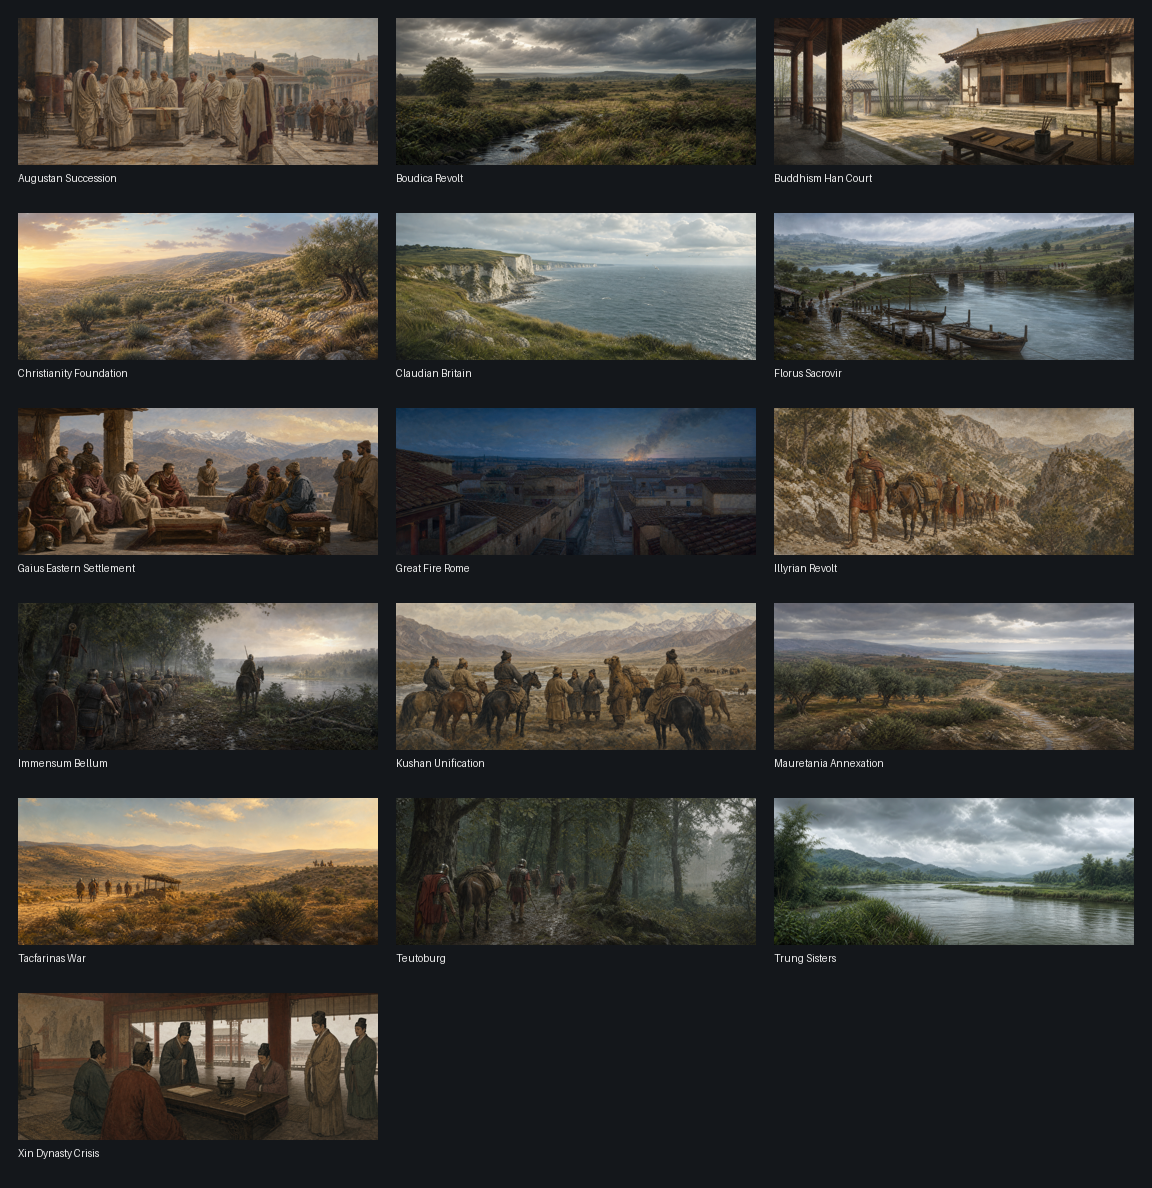
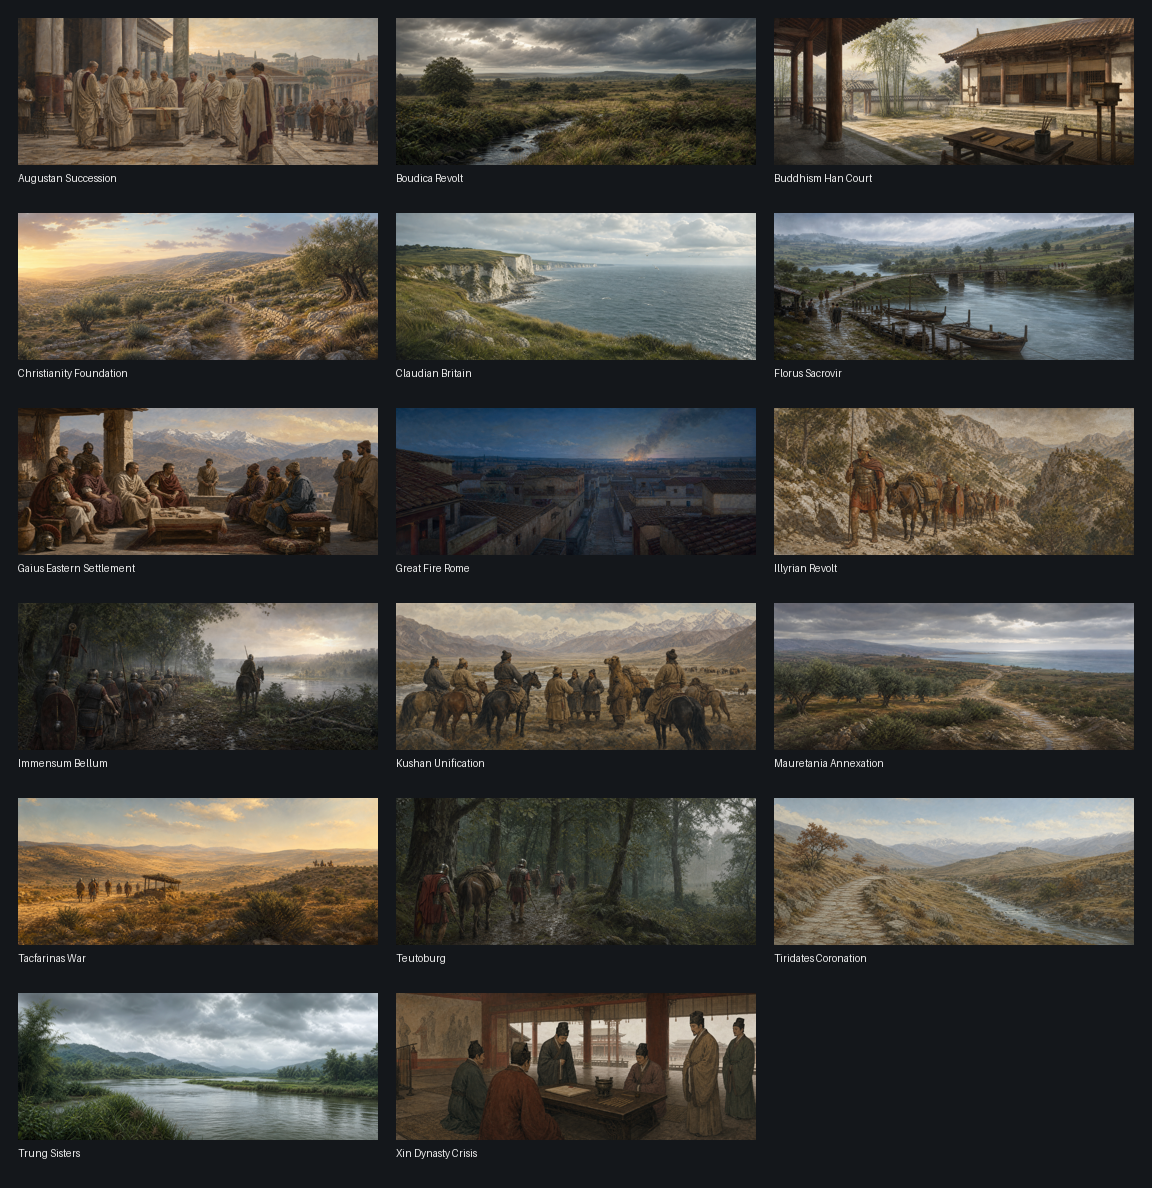
docs(m11): record Tiridates art

Changed region(s): [[0.0, 0.8098, 0.6562, 0.9966], [0.6562, 0.654, 1.0, 0.8098]]

diff --git a/docs/m11/contact_sheet.html b/docs/m11/contact_sheet.html
@@ -14,6 +14,7 @@
     <figure><img src="../../assets_queue/generated/antq_mauretania_annexation_1080x440.png" alt="Mauretania Annexation"><figcaption>Mauretania Annexation</figcaption></figure>
     <figure><img src="../../assets_queue/generated/antq_tacfarinas_war_1080x440.png" alt="Tacfarinas War"><figcaption>Tacfarinas War</figcaption></figure>
     <figure><img src="../../assets_queue/generated/antq_teutoburg_1080x440.png" alt="Teutoburg"><figcaption>Teutoburg</figcaption></figure>
+    <figure><img src="../../assets_queue/generated/antq_tiridates_coronation_1080x440.png" alt="Tiridates Coronation"><figcaption>Tiridates Coronation</figcaption></figure>
     <figure><img src="../../assets_queue/generated/antq_trung_sisters_1080x440.png" alt="Trung Sisters"><figcaption>Trung Sisters</figcaption></figure>
     <figure><img src="../../assets_queue/generated/antq_xin_dynasty_crisis_1080x440.png" alt="Xin Dynasty Crisis"><figcaption>Xin Dynasty Crisis</figcaption></figure>
 </section></main></body></html>

diff --git a/docs/m11/M11_TIRIDATES_CORONATION_ART.md b/docs/m11/M11_TIRIDATES_CORONATION_ART.md
@@ -1,0 +1,28 @@
+# M11 Tiridates' Coronation illustration
+
+## Asset and scope
+
+The retained source is
+`assets_queue/generated_sources/antq_tiridates_coronation_source.png`; its
+exact 1080x440 derivative is
+`assets_queue/generated/antq_tiridates_coronation_1080x440.png`. The
+game-facing BC7 DDS is
+`main_menu/gfx/interface/illustrations/event/antq_tiridates_coronation.dds`.
+
+The text-free image is a generic Armenian highland valley: a stone-paved road,
+river, dry grass, sparse trees, and distant snow-streaked ridges frame an
+indistinct hilltop enclosure. It identifies no coronation, Tiridates, Roman or
+Armenian official, capital, palace, route, treaty, date, action, or outcome.
+Review excluded people, soldiers, animals, crowns, flags, armies, religious
+symbols, churches, temples, battle, ritual, later architecture, modern
+material, labels, logos, and readable writing.
+
+## Engine verification
+
+`EVENT_IMAGES` in `tools/m10_history.py` owns the `antq_m10.1019` image link.
+The texture follows the inspected 1080x440 BC7 country-event form, was
+round-tripped to PNG for visual review, and passed `make validate` plus
+enabled-mod `make smoke` with zero new error-log lines.
+
+Sources: ANTIQVITAS master plan sections 8.2, 9, and 20; local EU5
+country-event image contract.

diff --git a/docs/TODO.md b/docs/TODO.md
@@ -203,7 +203,8 @@ after `make full` and its autonomous driver report are green.
 - [x] Generate, dimension-check, round-trip review, wire, and smoke-test the AD 60 Boudica's Revolt event illustration through a landscape-only eastern-Britain treatment.
 - [x] Generate, dimension-check, round-trip review, wire, and smoke-test the AD 64 Great Fire of Rome event illustration through a restrained non-literal urban context treatment.
 - [x] Generate, dimension-check, round-trip review, wire, and smoke-test the AD 65 Buddhism at the Han Court event illustration through a non-literal Eastern Han scholarly-courtyard context treatment.
-- [x] Render and review the maintained M11 event-art contact sheet (16 retained 1080x440 masters).
+- [x] Generate, dimension-check, round-trip review, wire, and smoke-test the AD 66 Tiridates' Coronation event illustration through a non-literal Armenian highland diplomacy-context treatment.
+- [x] Render and review the maintained M11 event-art contact sheet (17 retained 1080x440 masters).
 - [ ] Reach event/decision targets; finish flags, icons, illustrations, loading/age art, localization, glossary, and credits.
 - [ ] Remove common-screen placeholders; run milestone gate and tag `M11-done`.
 

diff --git a/docs/ASSUMPTIONS.md b/docs/ASSUMPTIONS.md
@@ -1,5 +1,15 @@
 # Historical Assumptions
 
+## 2026-07-20 - Tiridates-coronation art is a generic Armenian context
+
+The image is a generic highland valley with a road, river, dry grass, sparse
+trees, and distant snowy ridges. It identifies no coronation, Tiridates, Roman
+or Armenian official, capital, palace, route, treaty, date, action, or outcome.
+It deliberately contains no people, regalia, army, battle, ritual, or religious
+symbol and is not a reconstruction of the AD 66 settlement or ceremony.
+Sources weighed: P8.2; plan sections 9 and 20. [secure current context;
+illustrative composition only]
+
 ## 2026-07-20 - Buddhism-at-Han-court art is a generic scholarly context
 
 The image is an unoccupied early-Eastern-Han-style scholarly courtyard with a

diff --git a/docs/PROGRESS.md b/docs/PROGRESS.md
@@ -1,5 +1,17 @@
 # Progress
 
+## 2026-07-20 - M11 Tiridates' Coronation event illustration
+
+- Added a reviewed, non-literal Armenian highland diplomacy-context image to
+  the AD 66 Tiridates' Coronation current through the generated event-image
+  contract.
+- The engine-sized BC7 texture was round-trip inspected; `make validate` and
+  enabled-mod smoke are green with zero new error-log lines. The maintained
+  M11 contact sheet now has seventeen retained event masters.
+
+Next: continue the independent M11 art queue and source-led M5/M6 audit while
+runtime-gated milestone checks remain deferred.
+
 ## 2026-07-20 - M11 Buddhism at the Han Court event illustration
 
 - Added a reviewed, non-literal Eastern Han scholarly-courtyard context image

diff --git a/docs/m11/M11_CONTACT_SHEET.md b/docs/m11/M11_CONTACT_SHEET.md
@@ -5,7 +5,7 @@ every retained `assets_queue/generated/antq_*_1080x440.png` master. The HTML
 is the browsable review surface; the PNG is the compact visual record suitable
 for inclusion in the M11 milestone report.
 
-The current review contains sixteen 1080x440 event masters. It was inspected for
+The current review contains seventeen 1080x440 event masters. It was inspected for
 omissions, clipped labels, incorrect aspect ratios, readable text, watermarks,
 or obvious anachronistic material. Individual asset records retain the more
 specific historical-scope findings and engine checks.
